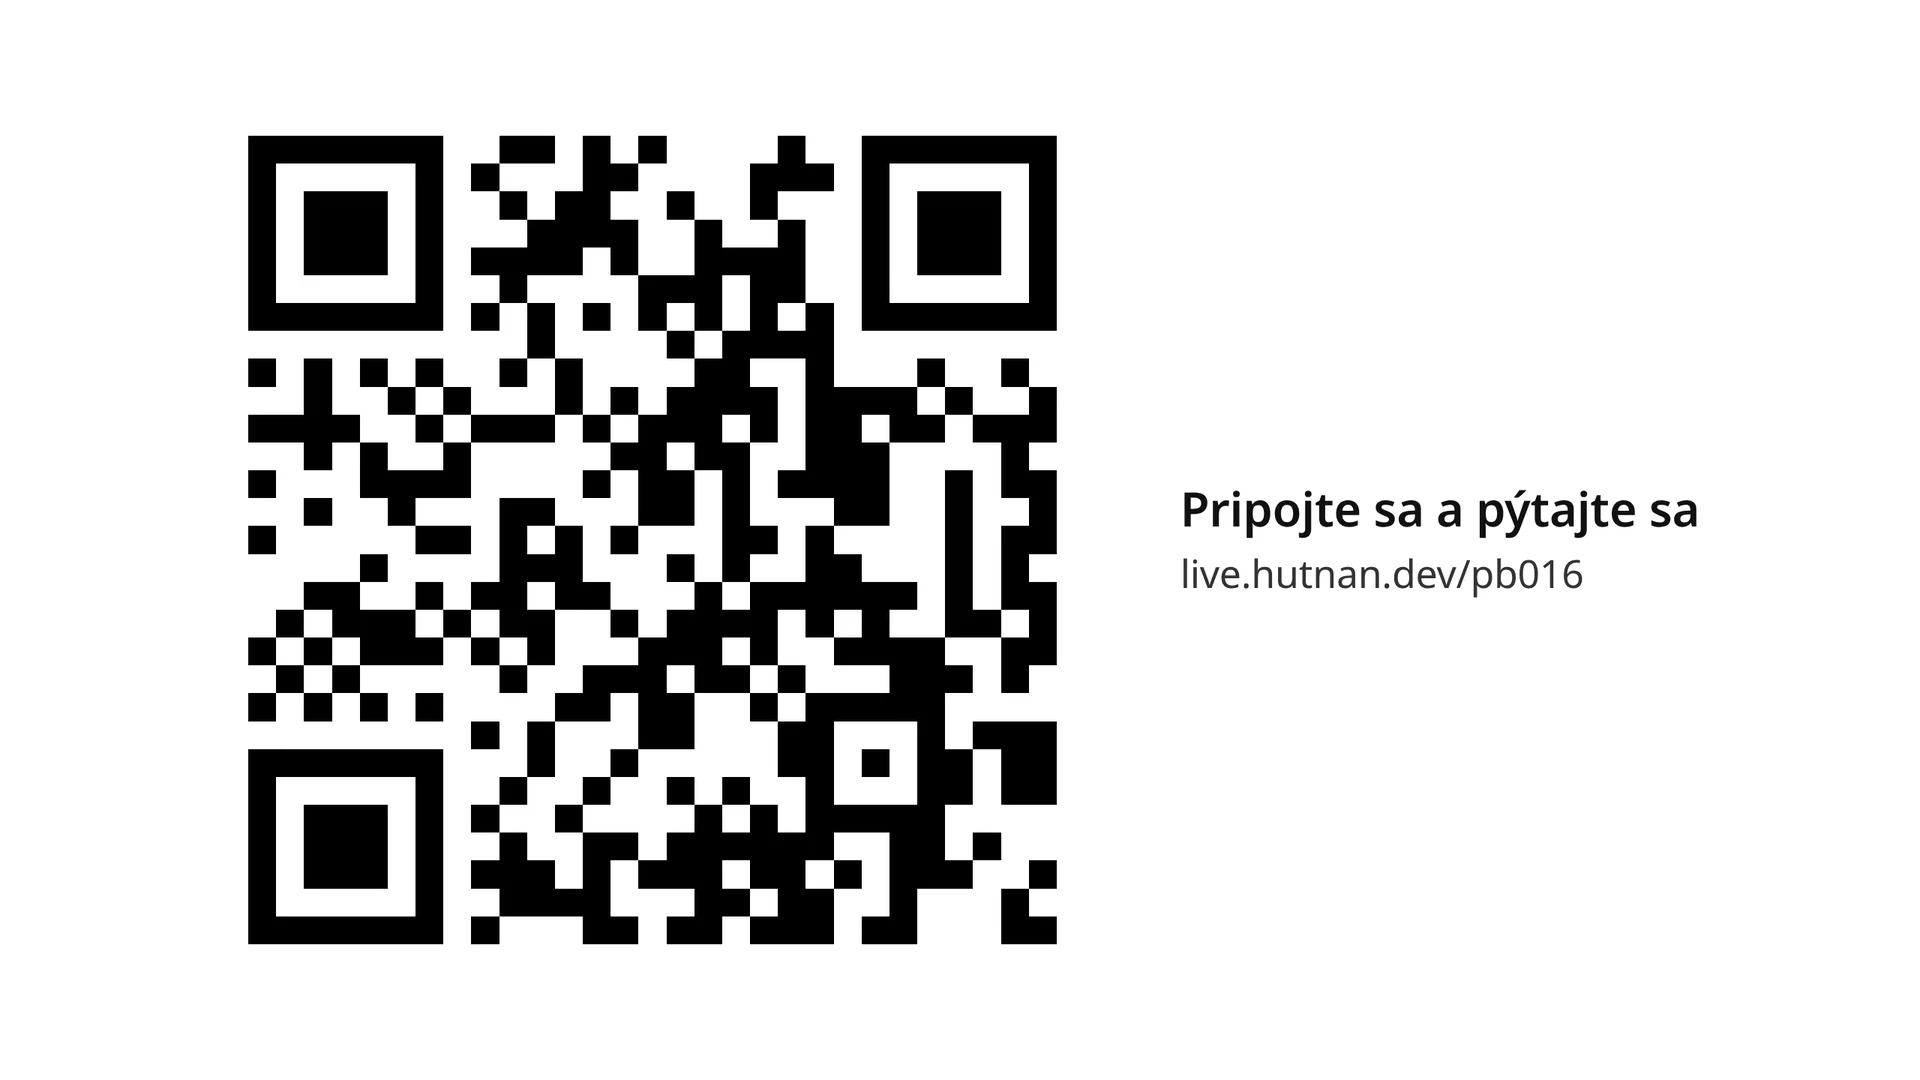
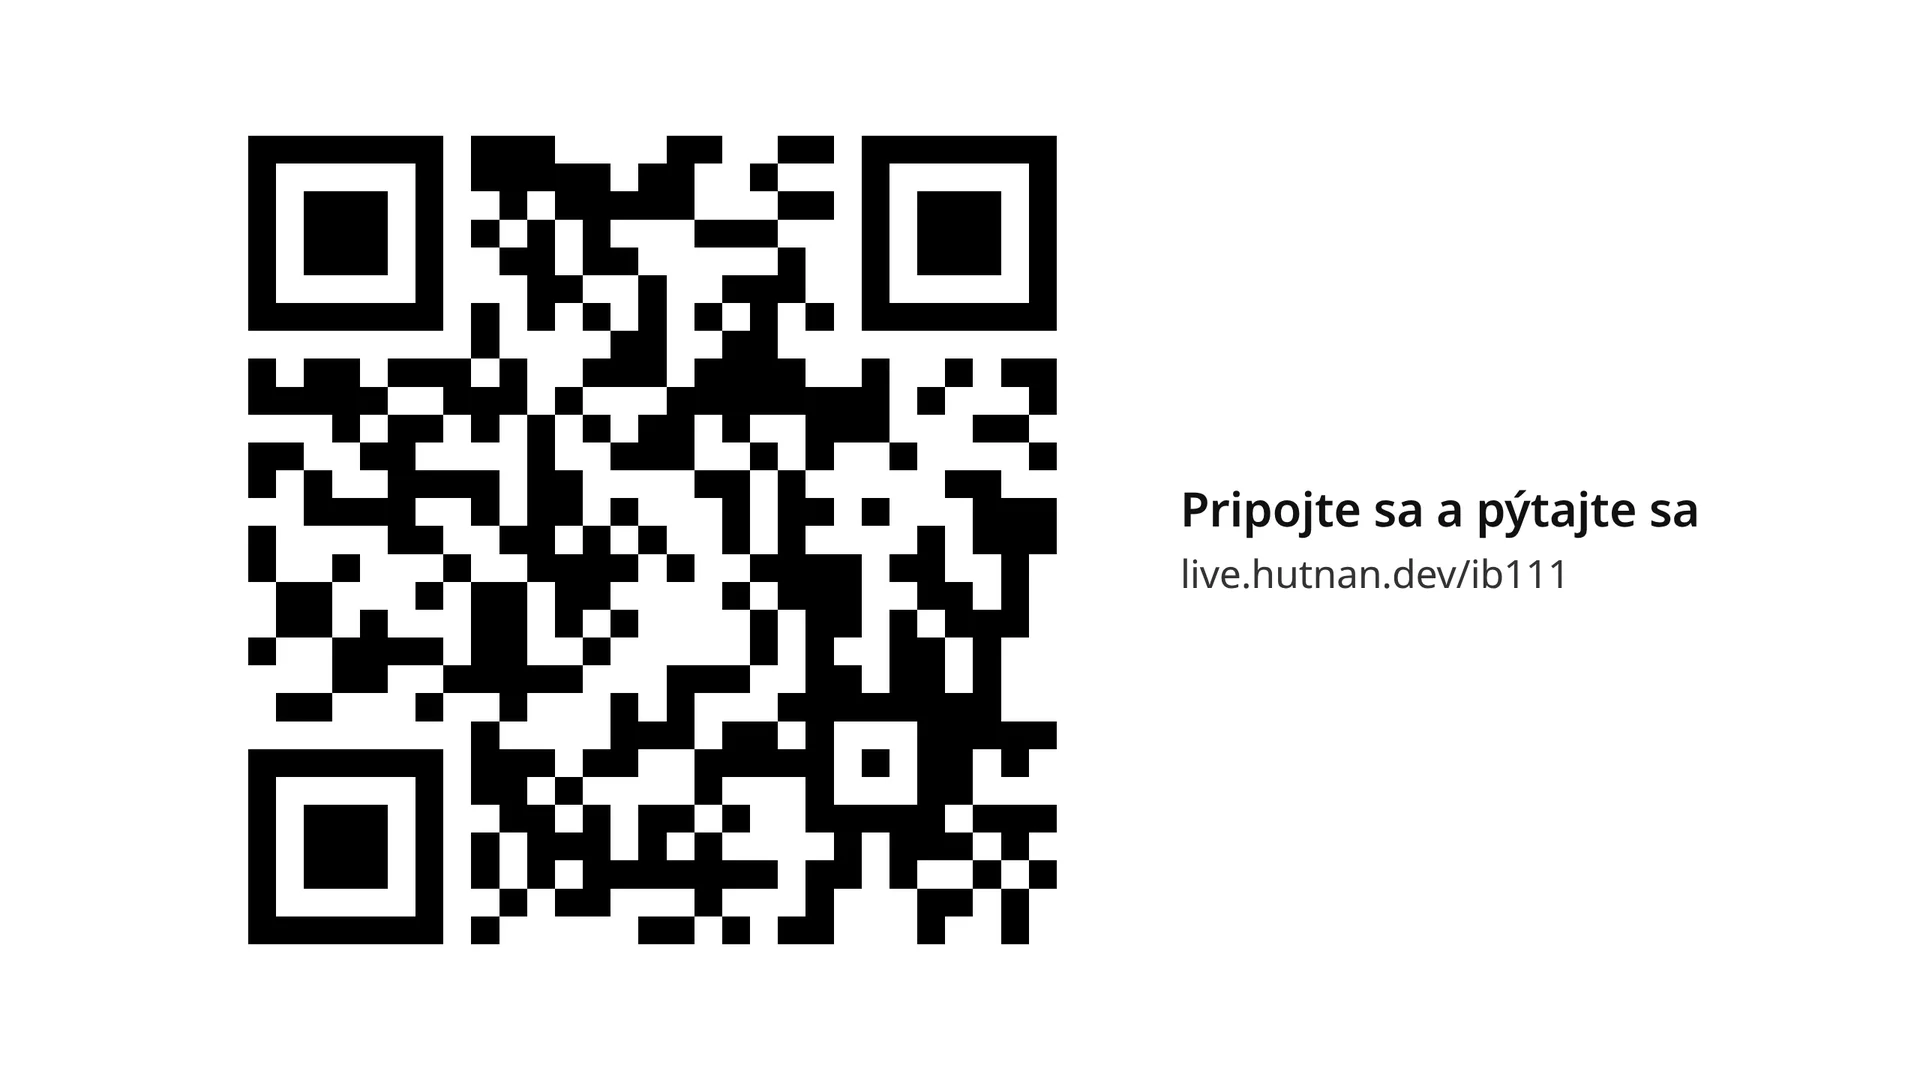
content: show the ib111 join code and full-screen projector view

Changed region(s): [[0.125, 0.1222, 0.5625, 0.8861], [0.75, 0.5194, 0.8438, 0.55]]

diff --git a/src/content/projects/live.md b/src/content/projects/live.md
@@ -23,14 +23,14 @@ gallery:
     - image: ../../assets/projects/live/questions.webp
       alt: The projected question board, listing five audience questions in Slovak, ordered by their votes.
     - image: ../../assets/projects/live/join.webp
-      alt: The projected join screen, a large QR code beside "Pripojte sa a pýtajte sa" and the short link live.hutnan.dev/pb016.
+      alt: The projected join screen, a large QR code beside "Pripojte sa a pýtajte sa" and the short link live.hutnan.dev/ib111.
 
 role: Full-Stack Developer
 shortRoleDescription: Designed and built a realtime presenting service, from the WebSocket protocol to the container it ships in.
 contribution: Built it alone, from the WebSocket protocol, outbox and SQLite storage to the presenter controls, the viewer, the offline export and the hardened container image, with unit and end-to-end tests throughout.
 ---
 
-Live is the service I use to teach seminars at Masaryk University. I upload a Quarto reveal.js deck, share a link, and present from a password-protected page while drawing on the slides. Students follow on their own screens slide by slide and step by step, and ask questions that the rest of the room can vote up. Afterwards the annotated deck downloads as a single HTML file that works offline.
+Live is the service I use to teach seminars at Masaryk University. I upload a Quarto reveal.js deck, share a short link like live.hutnan.dev/ib111 (or students type the code on the home page), and present from a password-protected page while drawing on the slides. Students follow on their own screens slide by slide and step by step, and ask questions that the rest of the room can vote up. Afterwards the annotated deck downloads as a single HTML file that works offline.
 
 Ink belongs to the slide and step it was drawn on, so it hides when the presenter steps back and returns when they step forward. A Wi-Fi drop loses nothing: strokes, moves and questions wait in an outbox until the server acknowledges them, and every message is idempotent, so a resend after reconnecting can't duplicate or revive anything. Live strokes stream as best-effort previews, and the finished stroke is what's stored.
 
